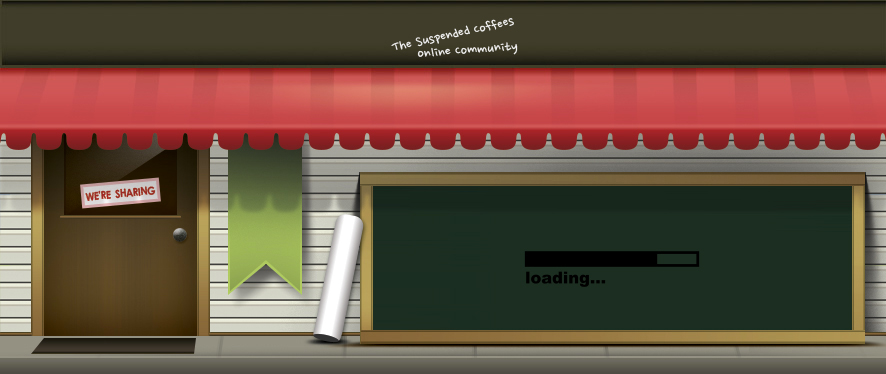
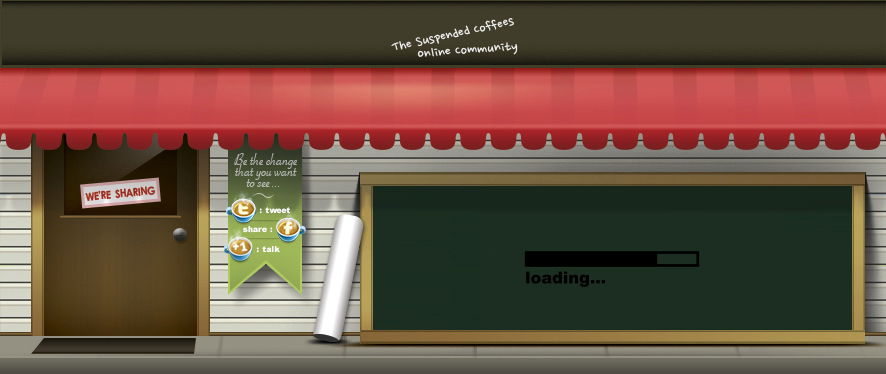
Add a twitter/facebook share on each pages

Changed region(s): [[0.2438, 0.4118, 0.3657, 0.7059]]

diff --git a/app/helpers/application_helper.rb b/app/helpers/application_helper.rb
@@ -2,4 +2,34 @@ module ApplicationHelper
   def asset_url asset
     "#{request.protocol}#{request.host_with_port}#{asset_path(asset)}"
   end
+  
+  def social_buttons
+    # Compute the informations
+    account = "coffeesharing"
+    description = "Join the official suspended coffee online community. This is a quick and anonymous act of charity"
+    url = url_for(only_path:false, lang:I18n.locale)
+    image = asset_url 'homeless.jpg'
+    if(controller_name == 'places' && action_name == 'show')
+      ftitle = "#{@place.name} @ Coffeesharing"
+      ttitle = "#{@place.name} is now participating to #suspendedcoffee"
+    elsif(controller_name == 'pages')
+      ftitle = "#{action_name.capitalize} - Coffee Sharing"
+      ttitle = description.sub('suspended coffee', '#suspendedcoffee') + ", "
+    else
+      ttitle = ftitle = "Coffee Sharing"
+    end
+    
+    # Compute the links
+    t = social_link :twitter, "http://twitter.com/share?text=#{u ttitle}&url=#{u url}&via=#{account}&related=#{account}"
+    f = social_link :facebook, "http://www.facebook.com/sharer.php?s=100&p[title]=#{u ftitle}&p[summary]=#{u description}&p[url]=#{u url}&p[images][0]=#{u image}"
+    p = social_link :plus, "https://plus.google.com/share?url=#{u url}"
+    
+    # return the 3 links
+    content_tag :div, t + f + p, class:'social'
+  end
+  
+private
+  def social_link (name, url)
+    link_to_function '', "window.open('#{url}','sharer','toolbar=0,status=0,width=548,height=325');", class:name
+  end
 end
